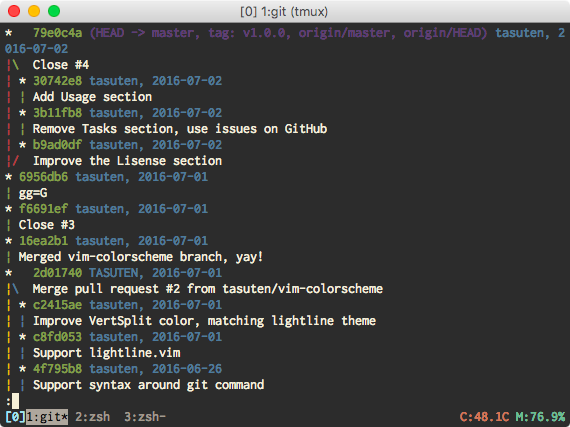
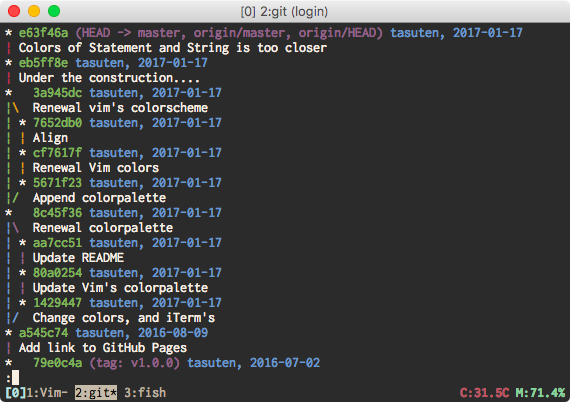
Renewal

Changed region(s): [[0.0, 0.0, 1.0, 0.9254], [0.0, 0.9552, 0.2982, 1.0], [0.8053, 0.9552, 1.0, 1.0]]

diff --git a/index.html b/index.html
@@ -1,7 +1,7 @@
 <!DOCTYPE html>
 <html lang="en">
   <head>
-    <title>Fugaku - Colorscheme inspired by Ukiyo-es</title>
+    <title>Fugaku - Japanese Colorscheme</title>
 
     <meta charset="UTF-8" />
     <meta name="viewport" content="width=device-width, initial-scale=1.0" />
@@ -16,7 +16,7 @@
 
     <header>
       <h1>Fugaku</h1>
-      <p>Coding with Japanese Ukiyo-es colors</p>
+      <p>Coding with Japanese Traditional colors</p>
     </header>
 
 
@@ -33,7 +33,7 @@
 
     <p>
     <a href="https://github.com/tasuten/Fugaku">Fugaku</a>
-    is a colorscheme using colors that were picked from real Ukiyo-e pictures.
+    is a colorscheme using <a href="http://irocore.com/">Japanese Traditional Colors</a>.
     </p>
     <p>The name &ldquo;<strong>Fugaku</strong>&rdquo;（<strong>富嶽</strong>） is another name of Mt. Fuji.<br />
     And this word is picked from <cite><strong>Fugaku</strong> sanju-roku-kei</cite>（<strong>富嶽</strong>三十六景, Thirty-six Views of Mount Fuji）, the ukiyo-e series by Hokusai.</p>
@@ -41,7 +41,7 @@
     <p><strong>Fugaku</strong> provides colorschemes for</p>
     <ul>
       <li>iTerm2</li>
-      <li>Vim (256-color) and GVim</li>
+      <li>Vim (256-color, True colors), GVim </li>
     </ul>
 
 
@@ -51,10 +51,7 @@
     <img src="./screenshots/git.png" class="screenshot" alt="Screenshot on iTerm2" />
     <h3>Ruby</h3>
     <img src="./screenshots/ruby.png" class="screenshot" alt="Screenshot on Ruby" />
-    <h3>Markdown</h3>
-    <img src="./screenshots/markdown.png" class="screenshot" alt="Screenshot on Markdown" />
-    <h3>Vim script</h3>
-    <img src="./screenshots/vim.png" class="screenshot" alt="Screenshot on Vim script" />
+
     <h3>Colorpalette</h3>
     <ul id="palette">
       <li id="black"></li>

diff --git a/main.css b/main.css
@@ -2,12 +2,12 @@
 
 body {
   font-family: 'Droid Sans', sans-serif;
-  color: #a29a8f; /* lightgray */
-  background-color: #0d0d0d; /* black */
+  color: #BCB09C; /* lightgray */
+  background-color: #0C0C0C; /* black */
 }
 
 a {
-  color: #e6bb2e; /* yellow */
+  color: #D9972F; /* yellow */
   text-decoration: none;
 }
 a:hover {
@@ -15,7 +15,7 @@ a:hover {
 }
 
 strong {
-  color: #f5efd9; /* white */
+  color: #F7EFE3; /* white */
   font-weight: normal;
 }
 
@@ -50,7 +50,7 @@ main {
 }
 
 main > h2 {
-  color: #f5efd9; /* white */
+  color: #F7EFE3; /* white */
   margin-top: 2em;
 }
 
@@ -82,13 +82,13 @@ ul#palette li#black:before {
   content: '\25a1'; /* empty square */
   font-size: 170%;
 }
-ul#palette li#darkgray { color: #3f493e; }
-ul#palette li#lightgray { color: #a29a8f; }
-ul#palette li#white { color: #f5efd9; }
-ul#palette li#red { color: #ab4645; }
-ul#palette li#green { color: #8a9c48; }
-ul#palette li#yellow { color: #e6bb2e; }
-ul#palette li#blue { color: #557c9b; }
-ul#palette li#magenta { color: #574376; }
-ul#palette li#cyan { color: #42b1e6; }
+ul#palette li#darkgray { color: #595455; }
+ul#palette li#lightgray { color: #BCB09C; }
+ul#palette li#white { color: #F7EFE3; }
+ul#palette li#red { color: #B23E52; }
+ul#palette li#green { color: #8CB155; }
+ul#palette li#yellow { color: #D9972F; }
+ul#palette li#blue { color: #6C9BD2; }
+ul#palette li#magenta { color: #8C6589; }
+ul#palette li#cyan { color: #7EC7D8; }
 
